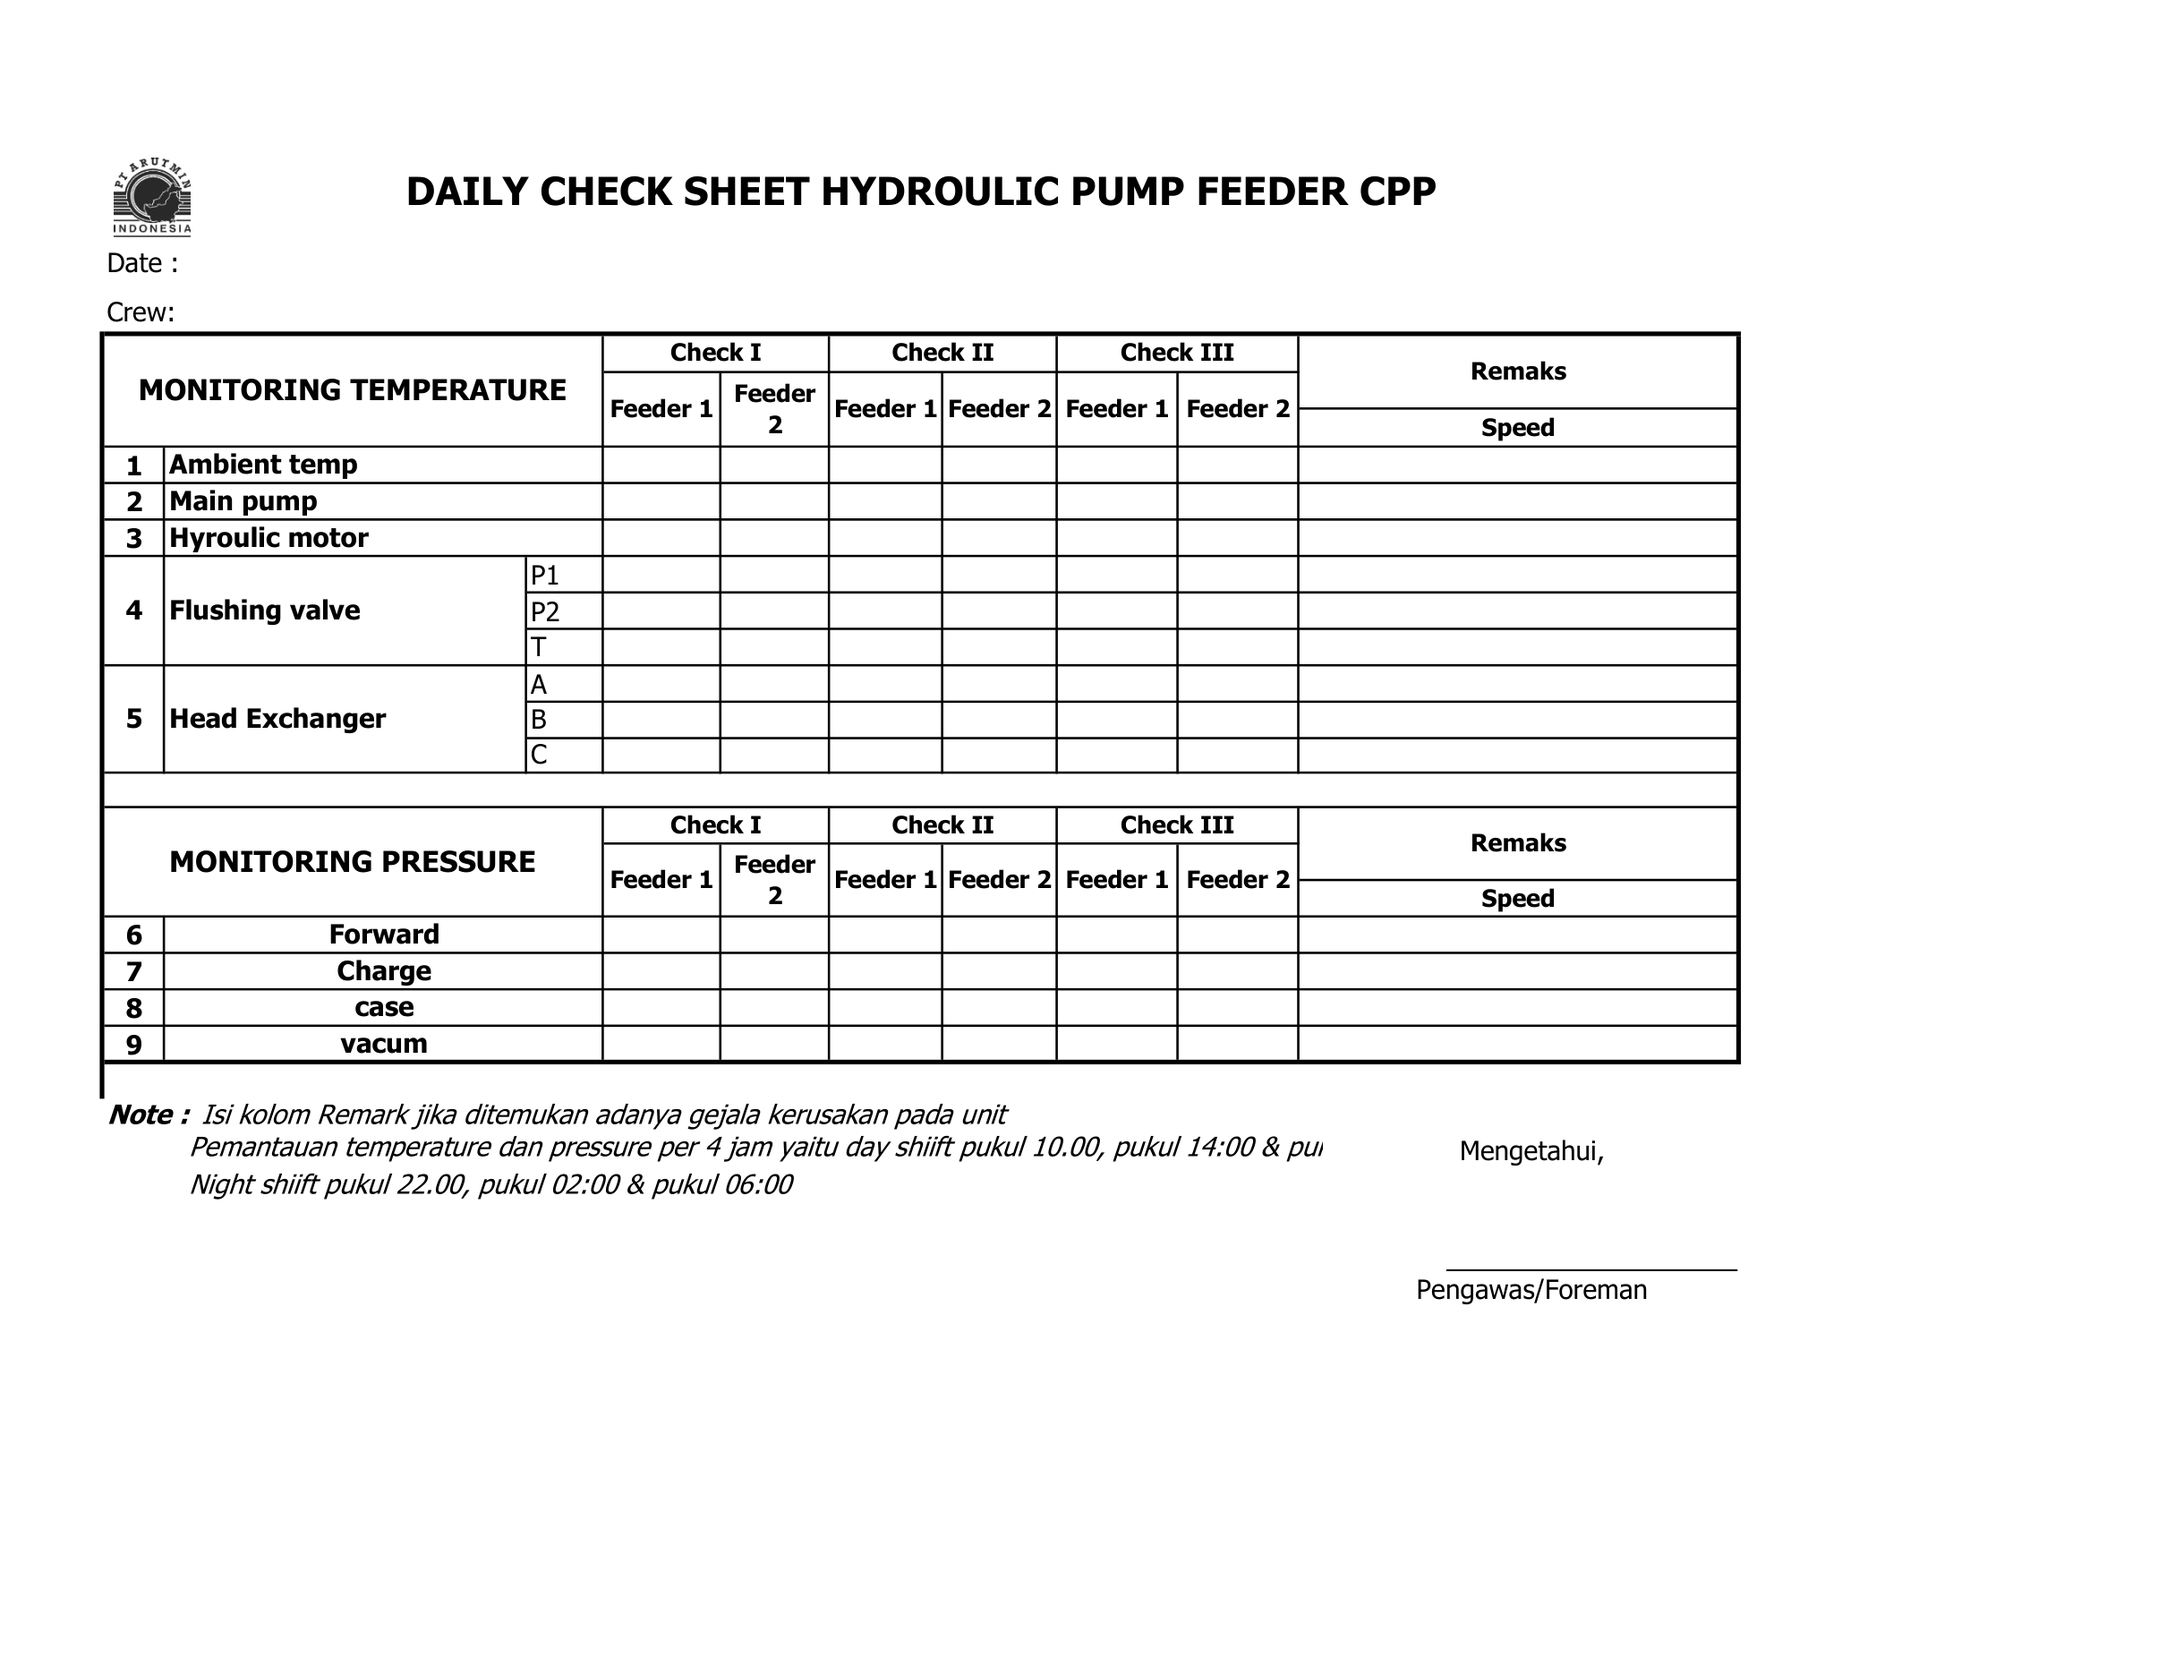
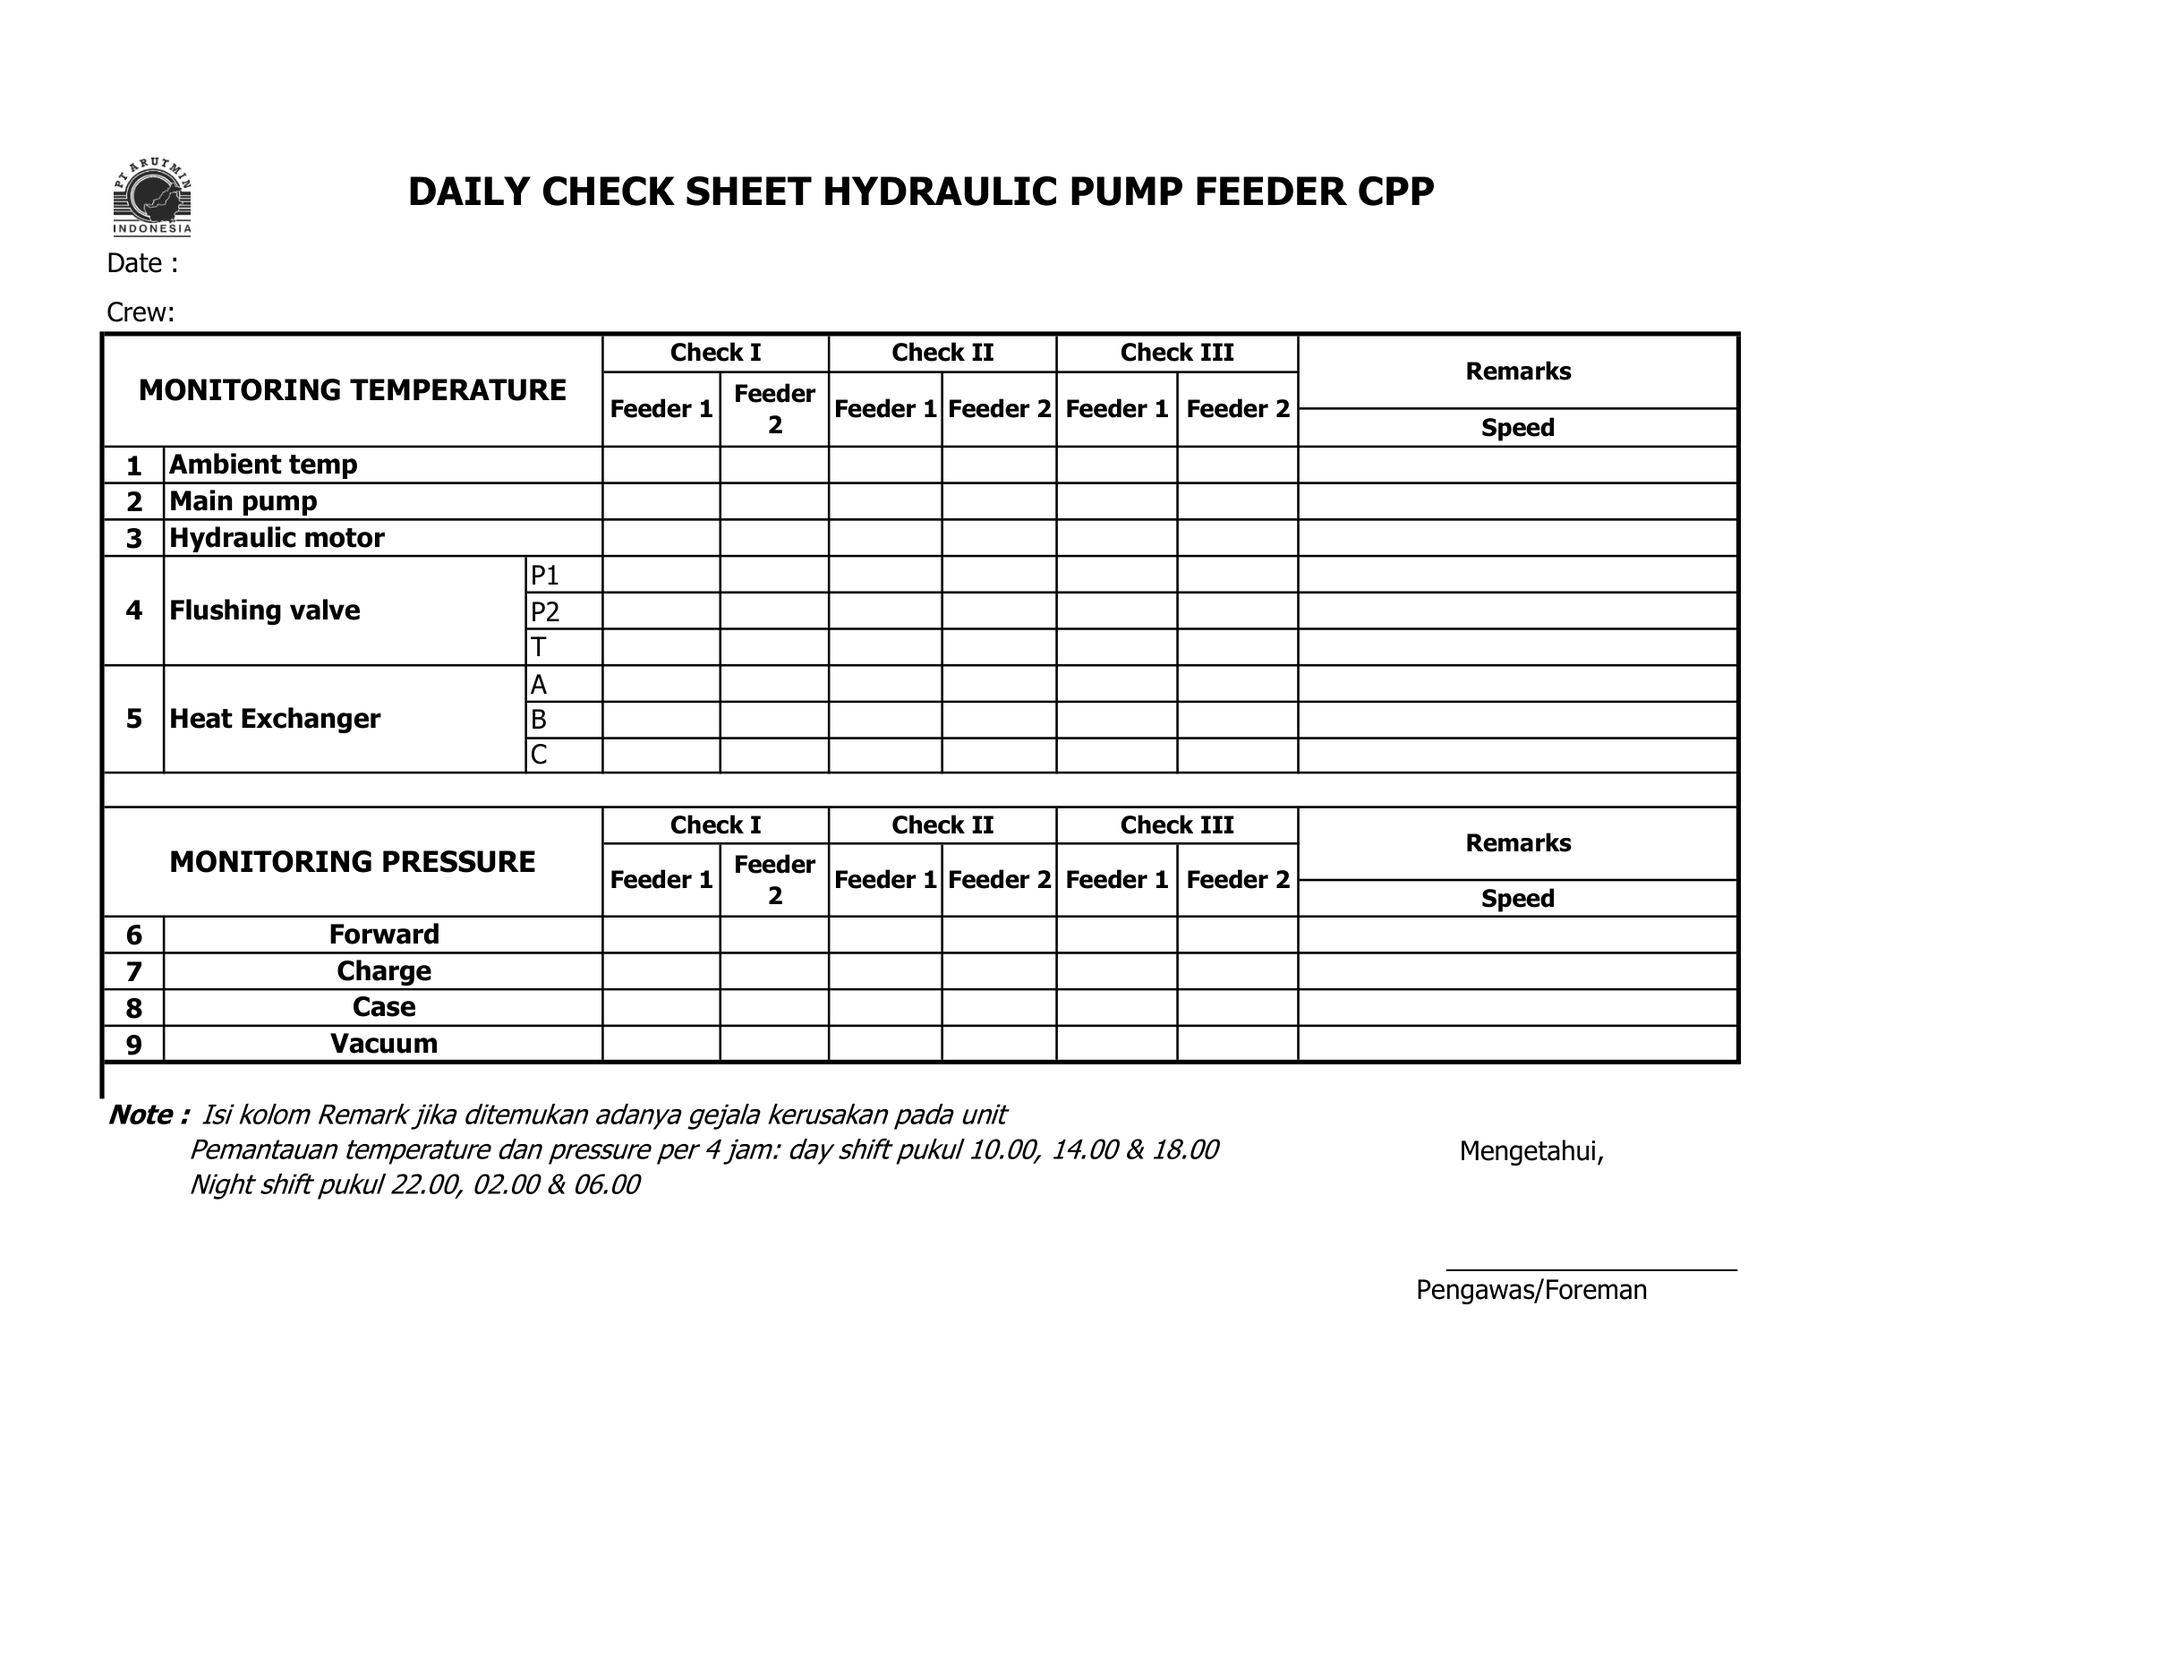
fix: correct paper-form typos, focus order, and compact PDF remarks
The hydraulic form background now reads Hydraulic, Heat Exchanger,
Vacuum, Remarks and shift, with the note lines no longer cut off. The
keyboard Next key moves to the following value, the Speed line fits one
Remarks row, and summary cards wrap long check names on phones.

diff --git a/flutter_app/lib/features/daily_checks/presentation/daily_check_entry_screen.dart b/flutter_app/lib/features/daily_checks/presentation/daily_check_entry_screen.dart
@@ -39,6 +39,7 @@ class _DailyCheckEntryScreenState extends ConsumerState<DailyCheckEntryScreen> {
   final Map<String, TextEditingController> _controllers =
       <String, TextEditingController>{};
   final TextEditingController _remarks = TextEditingController();
+  final Map<String, FocusNode> _focusNodes = <String, FocusNode>{};
   final Map<String, DailyCheckUnitStatus> _statuses =
       <String, DailyCheckUnitStatus>{};
   DailyCheckSheet? _sheet;
@@ -81,6 +82,9 @@ class _DailyCheckEntryScreenState extends ConsumerState<DailyCheckEntryScreen> {
   void dispose() {
     for (final controller in _controllers.values) {
       controller.dispose();
+    }
+    for (final node in _focusNodes.values) {
+      node.dispose();
     }
     _remarks.dispose();
     _scroll.dispose();
@@ -213,6 +217,30 @@ class _DailyCheckEntryScreenState extends ConsumerState<DailyCheckEntryScreen> {
       return false;
     } finally {
       if (mounted) setState(() => _saving = false);
+    }
+  }
+
+  FocusNode _focusNode(String key) =>
+      _focusNodes.putIfAbsent(key, FocusNode.new);
+
+  /// Enter / the keyboard's Next key jumps to the next value on screen, in
+  /// the order the fields are shown.
+  void _focusNext(String key) {
+    final units = _tabbed
+        ? <DailyCheckUnit>[_form.units[_unitIndex]]
+        : _form.units;
+    final order = <String>[
+      for (final unit in units)
+        if ((_statuses[unit.key] ?? DailyCheckUnitStatus.running) ==
+            DailyCheckUnitStatus.running)
+          for (final field in _form.fields)
+            DailyCheckForm.valueKey(unit, field),
+    ];
+    final index = order.indexOf(key);
+    if (index >= 0 && index + 1 < order.length) {
+      _focusNode(order[index + 1]).requestFocus();
+    } else {
+      FocusScope.of(context).unfocus();
     }
   }
 
@@ -614,6 +642,7 @@ class _DailyCheckEntryScreenState extends ConsumerState<DailyCheckEntryScreen> {
       padding: const EdgeInsets.only(bottom: 10),
       child: TextField(
         controller: controller,
+        focusNode: _focusNode(key),
         enabled: enabled,
         keyboardType: const TextInputType.numberWithOptions(
           decimal: true,
@@ -622,6 +651,9 @@ class _DailyCheckEntryScreenState extends ConsumerState<DailyCheckEntryScreen> {
         inputFormatters: <TextInputFormatter>[
           FilteringTextInputFormatter.allow(RegExp(r'^-?\d*[.,]?\d*')),
         ],
+        // The keyboard's Next key moves straight to the following value.
+        textInputAction: TextInputAction.next,
+        onSubmitted: (_) => _focusNext(key),
         onChanged: (_) => _changed(),
         decoration: InputDecoration(
           labelText: field.label,

diff --git a/flutter_app/lib/features/daily_checks/daily_check_pdf.dart b/flutter_app/lib/features/daily_checks/daily_check_pdf.dart
@@ -211,7 +211,7 @@ const List<double> _hydraulicColumns = <double>[
 const double _hydraulicRemarksLeft = 474.3;
 const double _hydraulicRemarksRight = 634.9;
 
-/// Row edges of the nine temperature rows (Ambient temp … Head Exchanger C).
+/// Row edges of the nine temperature rows (Ambient temp … Heat Exchanger C).
 const List<double> _hydraulicTemperatureRows = <double>[
   162.9,
   176.2,
@@ -225,7 +225,7 @@ const List<double> _hydraulicTemperatureRows = <double>[
   282.1,
 ];
 
-/// Row edges of the four pressure rows (Forward, Charge, case, vacum).
+/// Row edges of the four pressure rows (Forward, Charge, Case, Vacuum).
 const List<double> _hydraulicPressureRows = <double>[
   334.6,
   348.0,
@@ -302,14 +302,18 @@ List<pw.Widget> _hydraulic(DailyCheckSheet sheet) {
   for (var s = 0; s < slots.length; s++) {
     final values = sheet.readings[slots[s].key];
     if (values == null) continue;
-    final parts = <String>[
+    final perFeeder = <String>[
       for (final unit in form.units)
-        if (values[DailyCheckForm.valueKey(unit, speed)] case final num v)
-          'F${form.units.indexOf(unit) + 1}=${_number(v)}',
+        switch (values[DailyCheckForm.valueKey(unit, speed)]) {
+          final num v => _number(v),
+          _ => '-',
+        },
     ];
-    if (parts.isNotEmpty) speeds.add('${numerals[s]}: ${parts.join(' ')}');
+    if (perFeeder.any((value) => value != '-')) {
+      speeds.add('${numerals[s]} ${perFeeder.join('/')}');
+    }
   }
-  if (speeds.isNotEmpty) lines.add('Speed ${speeds.join('; ')}');
+  if (speeds.isNotEmpty) lines.add('Speed (F1/F2): ${speeds.join(', ')}');
   for (var s = 0; s < slots.length; s++) {
     final values = sheet.readings[slots[s].key];
     if (values == null) continue;

diff --git a/flutter_app/lib/features/daily_checks/presentation/daily_check_sheet_screen.dart b/flutter_app/lib/features/daily_checks/presentation/daily_check_sheet_screen.dart
@@ -361,7 +361,7 @@ class _DailyCheckSheetScreenState extends ConsumerState<DailyCheckSheetScreen> {
               physics: const NeverScrollableScrollPhysics(),
               mainAxisSpacing: 8,
               crossAxisSpacing: 8,
-              childAspectRatio: columns == 3 ? 1.0 : 1.9,
+              childAspectRatio: columns == 3 ? 0.82 : 1.5,
               children: slots.map((slot) => _slotCard(sheet, slot)).toList(),
             );
           },
@@ -435,9 +435,13 @@ class _DailyCheckSheetScreenState extends ConsumerState<DailyCheckSheetScreen> {
               const SizedBox(height: 4),
               Text(
                 slot.label,
-                maxLines: 1,
+                maxLines: 2,
+                textAlign: TextAlign.center,
                 overflow: TextOverflow.ellipsis,
-                style: const TextStyle(fontWeight: FontWeight.w800),
+                style: const TextStyle(
+                  fontWeight: FontWeight.w800,
+                  height: 1.1,
+                ),
               ),
               if (timeText != null)
                 Text(
